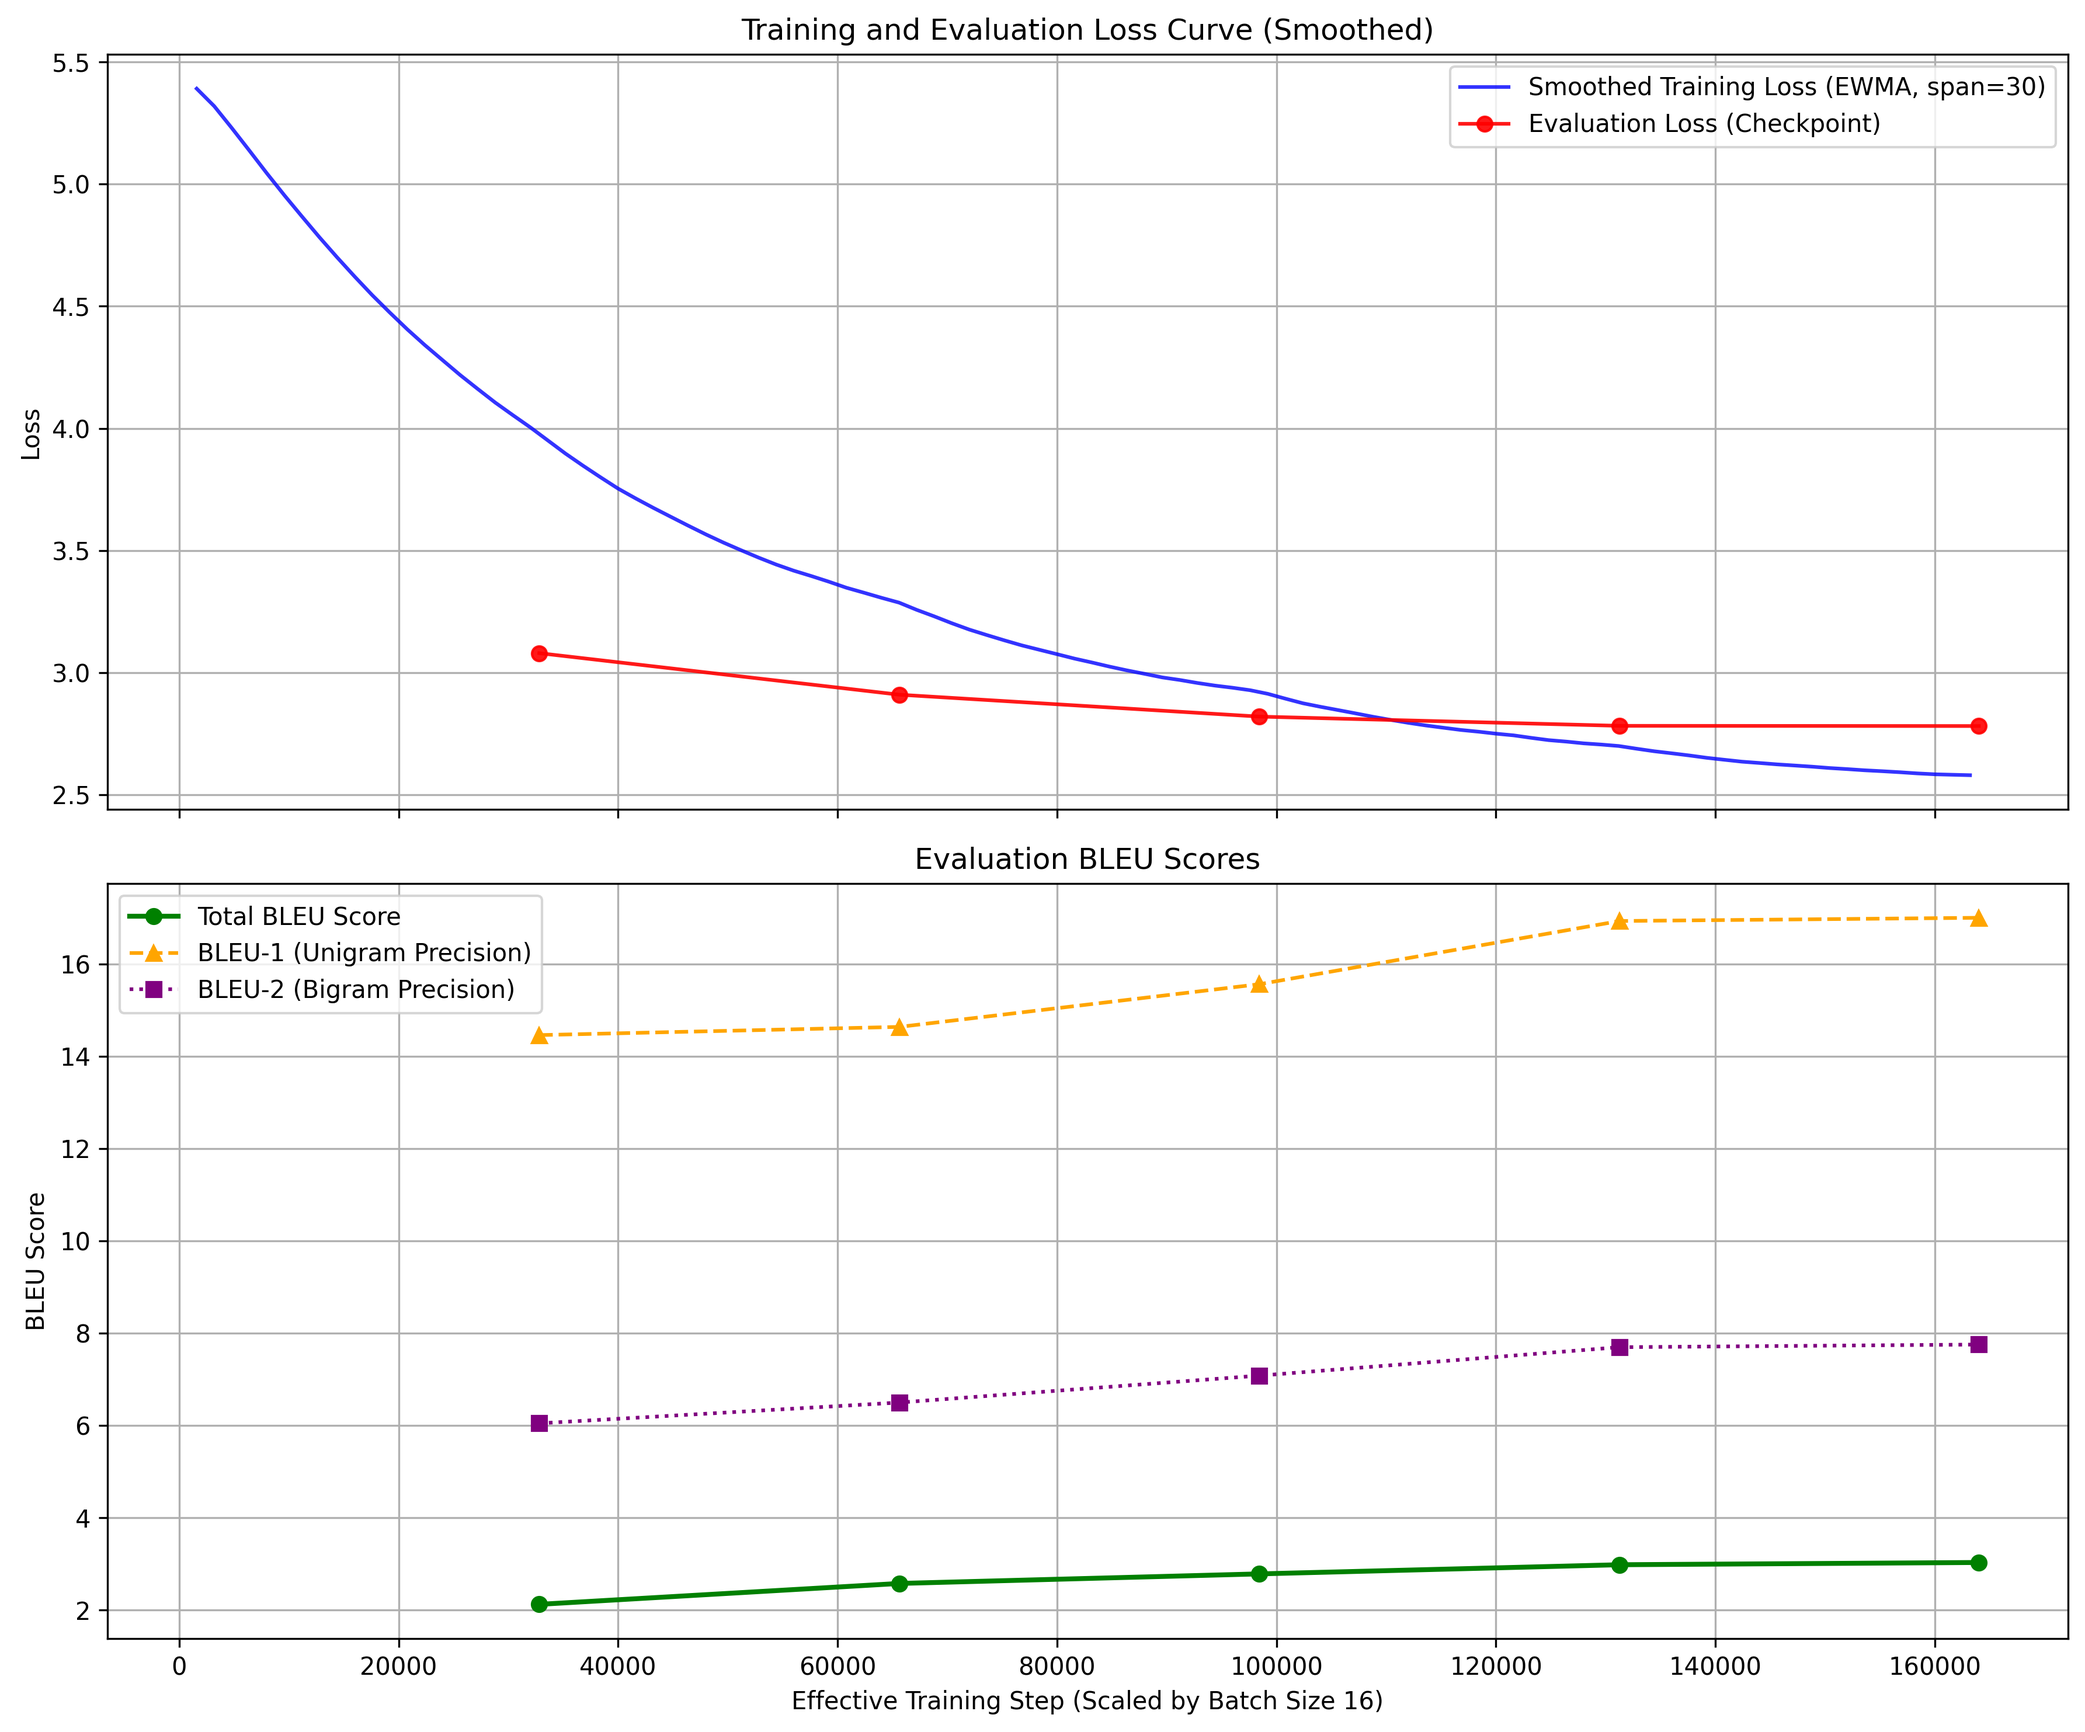
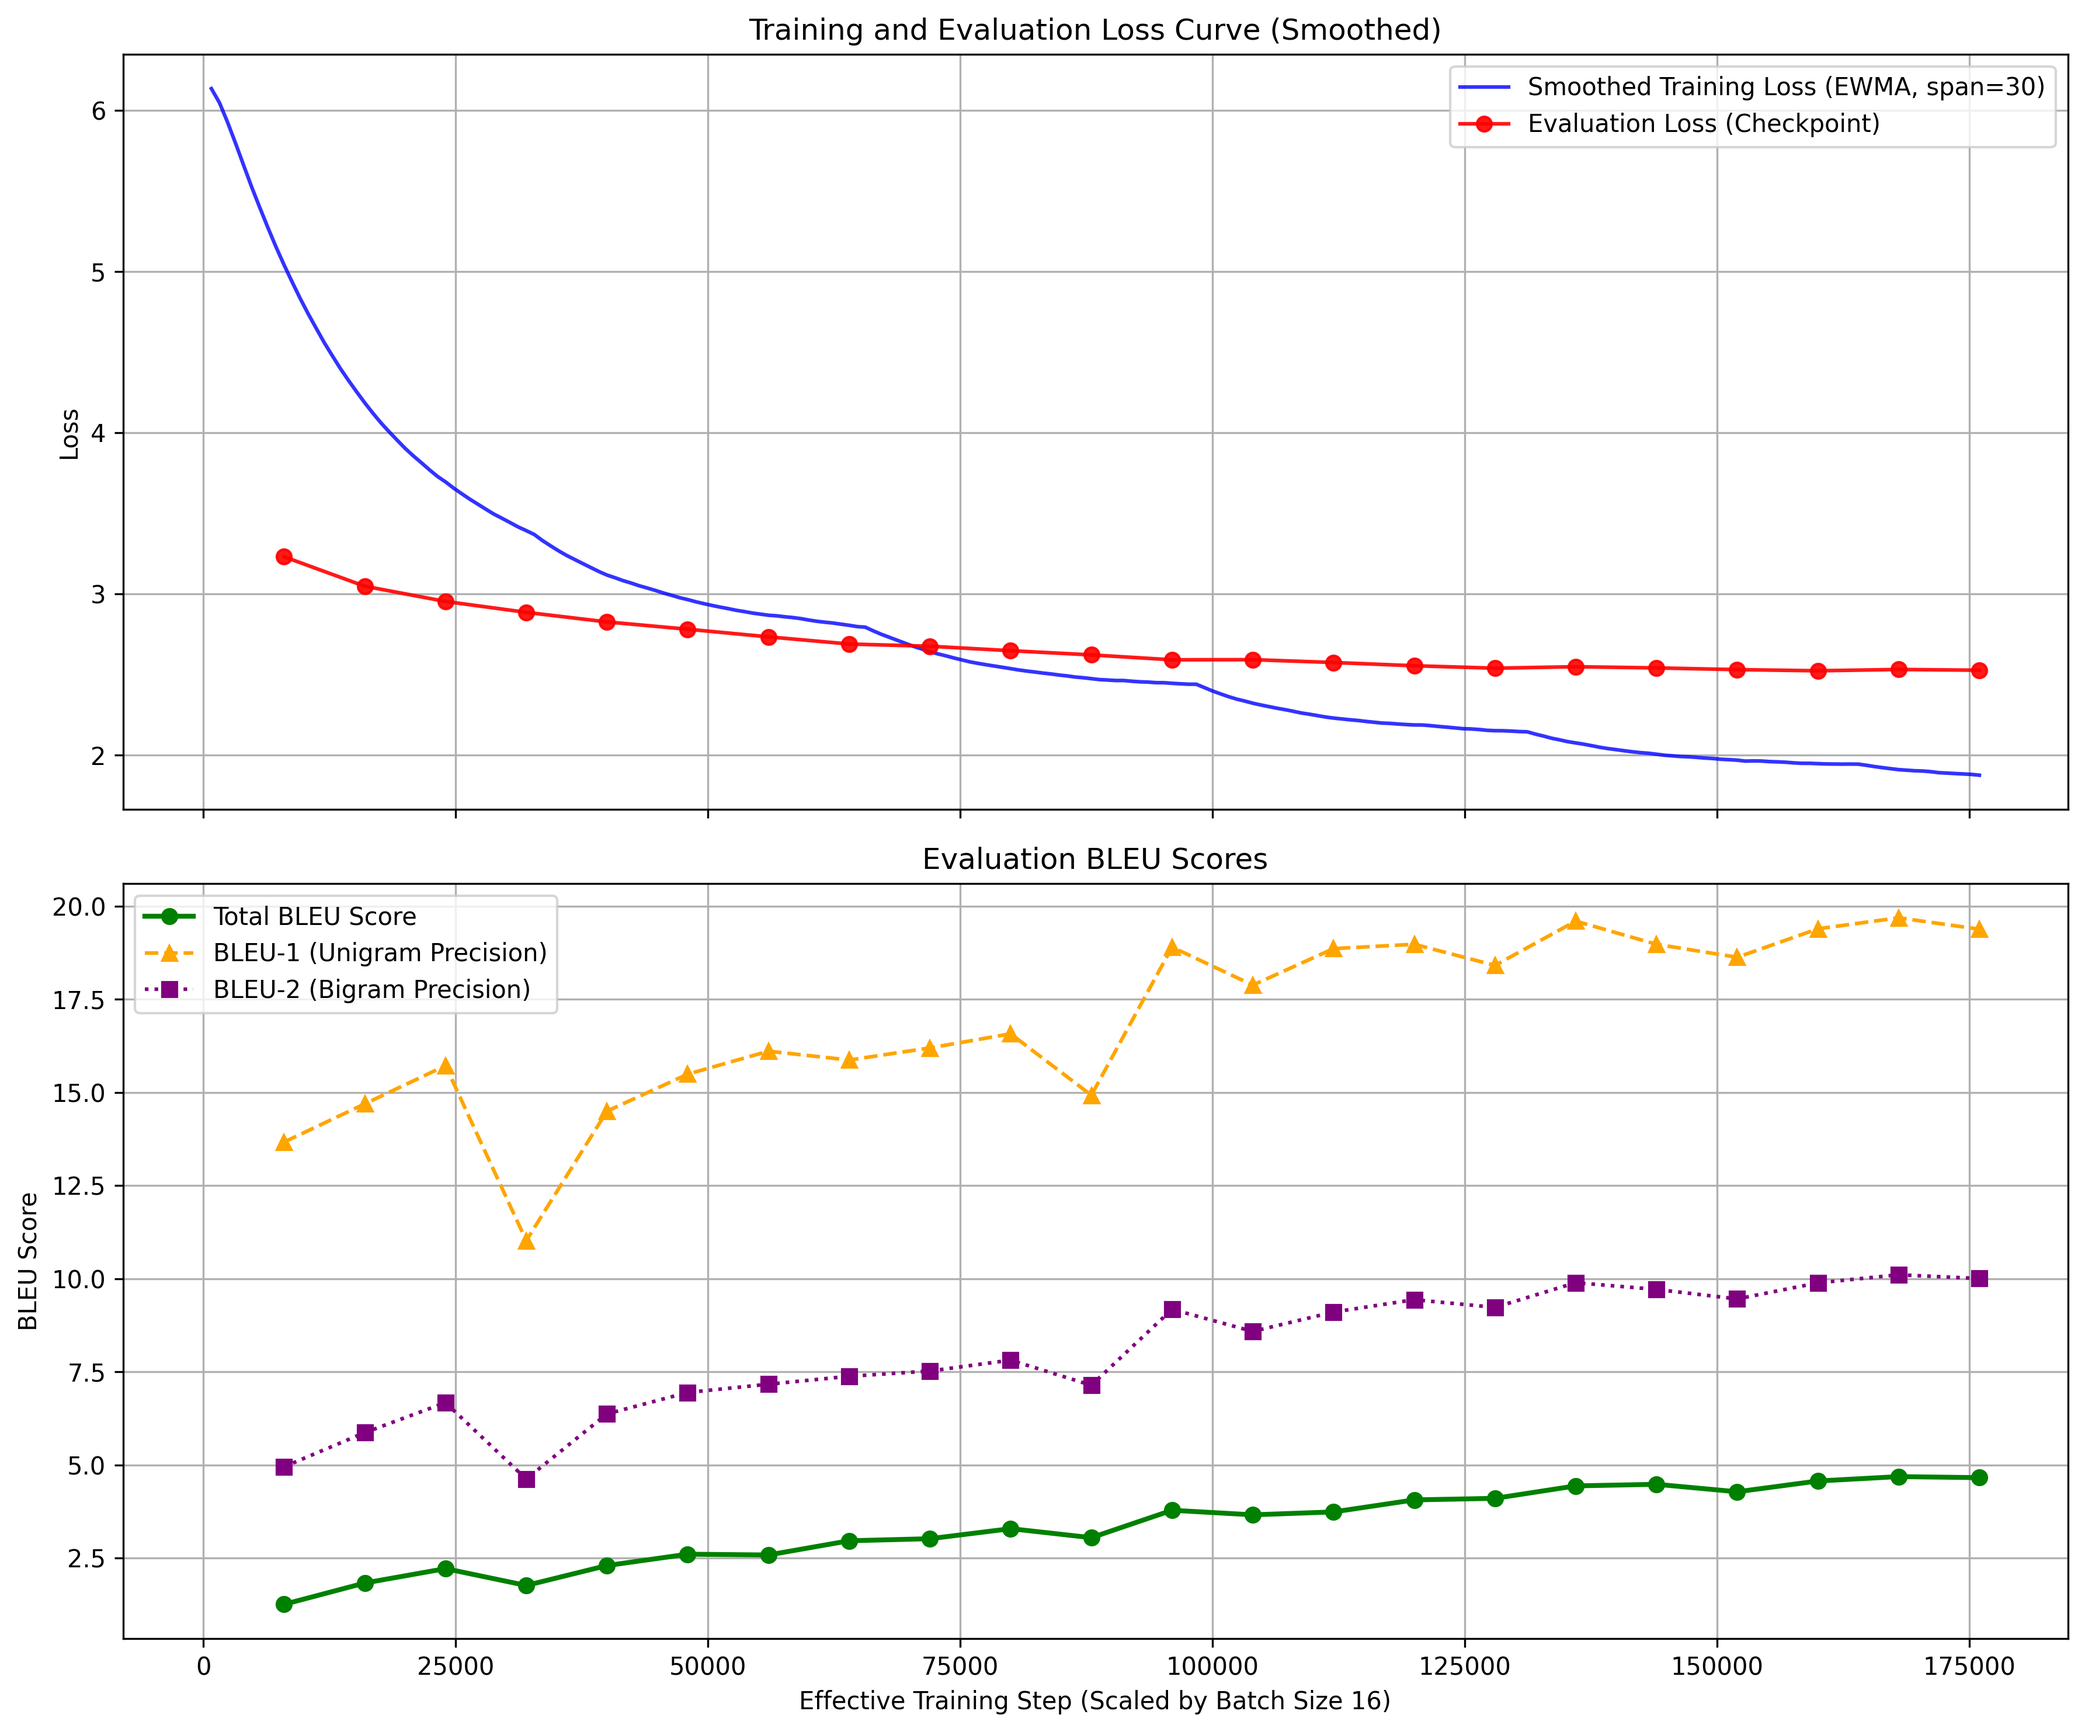
m2m100_1.2b

diff --git a/finetune_notationed.py b/finetune_notationed.py
@@ -345,10 +345,11 @@ if __name__ == "__main__":
 
     ## 你可以在CMD/bash用huggingface-cli下载，也可以直接把模型名称填到model_name_or_path里面
     ## huggingface-cli download facebook/m2m100_418M --local-dir ./models
+    resume_training_from_checkpoint = True
 
     ########## 需要修改的参数 #########
     model_args = ModelArguments(
-        model_name_or_path="facebook/m2m100_418M",  # 改为M2M100模型，可选: m2m100_418M, m2m100_1.2B
+        model_name_or_path="facebook/m2m100_1.2B",  # 改为M2M100模型，可选: m2m100_418M, m2m100_1.2B
     )
 
     data_args = DataTrainingArguments(
@@ -368,11 +369,11 @@ if __name__ == "__main__":
     )
 
     training_args = Seq2SeqTrainingArguments(
-        output_dir="./fine_tune_checkpoints/m2m100_multilingual",  # 修改：多语言任务专用文件夹
+        output_dir="./fine_tune_checkpoints/m2m100_1_2b_multilingual",  # 修改：多语言任务专用文件夹
         do_train=True,
         do_eval=True,  
         do_predict=True,  # 启用预测
-        num_train_epochs=5,  # 增加训练轮数
+        num_train_epochs=6,  # 增加训练轮数
         max_steps=-1,  
 
         per_device_train_batch_size=16,
@@ -385,9 +386,11 @@ if __name__ == "__main__":
         optim='adamw_torch',
         max_grad_norm=1.0, #设置梯度上限防止梯度爆炸
 
-        save_strategy="epoch",  
-        eval_strategy="epoch",  
-        save_total_limit=4,
+        save_strategy="steps",  
+        eval_strategy="steps",
+        save_steps=500,
+        eval_steps=500,
+        save_total_limit=1,
         logging_steps=50,
         load_best_model_at_end=True,  # 加载最佳模型  
         metric_for_best_model="eval_bleu",  # 修正为带前缀的指标名  

diff --git a/genpkl_from_state.py b/genpkl_from_state.py
@@ -1,0 +1,43 @@
+import os
+import pickle
+import logging
+from transformers.trainer import TrainerState
+
+# --- 配置日志 ---
+logging.basicConfig(level=logging.INFO)
+logger = logging.getLogger(__name__)
+
+# --- 你需要修改的路径 ---
+CHECKPOINT_DIR = "fine_tune_checkpoints/m2m100_1_2b_multilingual/checkpoint-11000" 
+
+# 2. 你想要生成的 .pkl 文件的完整路径
+OUTPUT_PKL_FILE = "fine_tune_checkpoints/m2m100_1_2b_multilingual/training_log_history.pkl"
+
+
+# 构造 trainer_state.json 文件的完整路径
+state_json_path = os.path.join(CHECKPOINT_DIR, "trainer_state.json")
+
+if not os.path.exists(state_json_path):
+    logger.error(f"错误：在指定目录 {CHECKPOINT_DIR} 中找不到 'trainer_state.json'。")
+    logger.error("请确保 CHECKPOINT_DIR 指向一个有效的检查点文件夹。")
+else:
+    try:
+        logger.info(f"正在从 {state_json_path} 加载 TrainerState...")
+        
+        # 1. 从 JSON 文件加载状态
+        trainer_state = TrainerState.load_from_json(state_json_path)
+        
+        # 2. 提取 log_history
+        #    trainer_state.log_history 就是你需要的那个列表
+        log_history = trainer_state.log_history
+        
+        logger.info(f"成功提取 log_history (共 {len(log_history)} 条记录)")
+        
+        # 3. 使用 pickle 将 log_history 保存到 .pkl 文件
+        with open(OUTPUT_PKL_FILE, "wb") as f:
+            pickle.dump(log_history, f)
+            
+        logger.info(f"已成功将 Log History 重新保存到: {OUTPUT_PKL_FILE}")
+
+    except Exception as e:
+        logger.error(f"处理过程中发生错误: {e}")

diff --git a/loss_curves.py b/loss_curves.py
@@ -5,7 +5,7 @@ import numpy as np
 
 ######修改参数########
 ## 在这里输入check_point文件夹位置
-checkpoint_path = "fine_tune_checkpoints/m2m100_multilingual"
+checkpoint_path = "fine_tune_checkpoints/m2m100_1_2b_multilingual"
 # 设定 Batch Size (用于横轴缩放)
 train_batch_size = 16
 # 设定平滑窗口大小 (仅用于训练 Loss)
